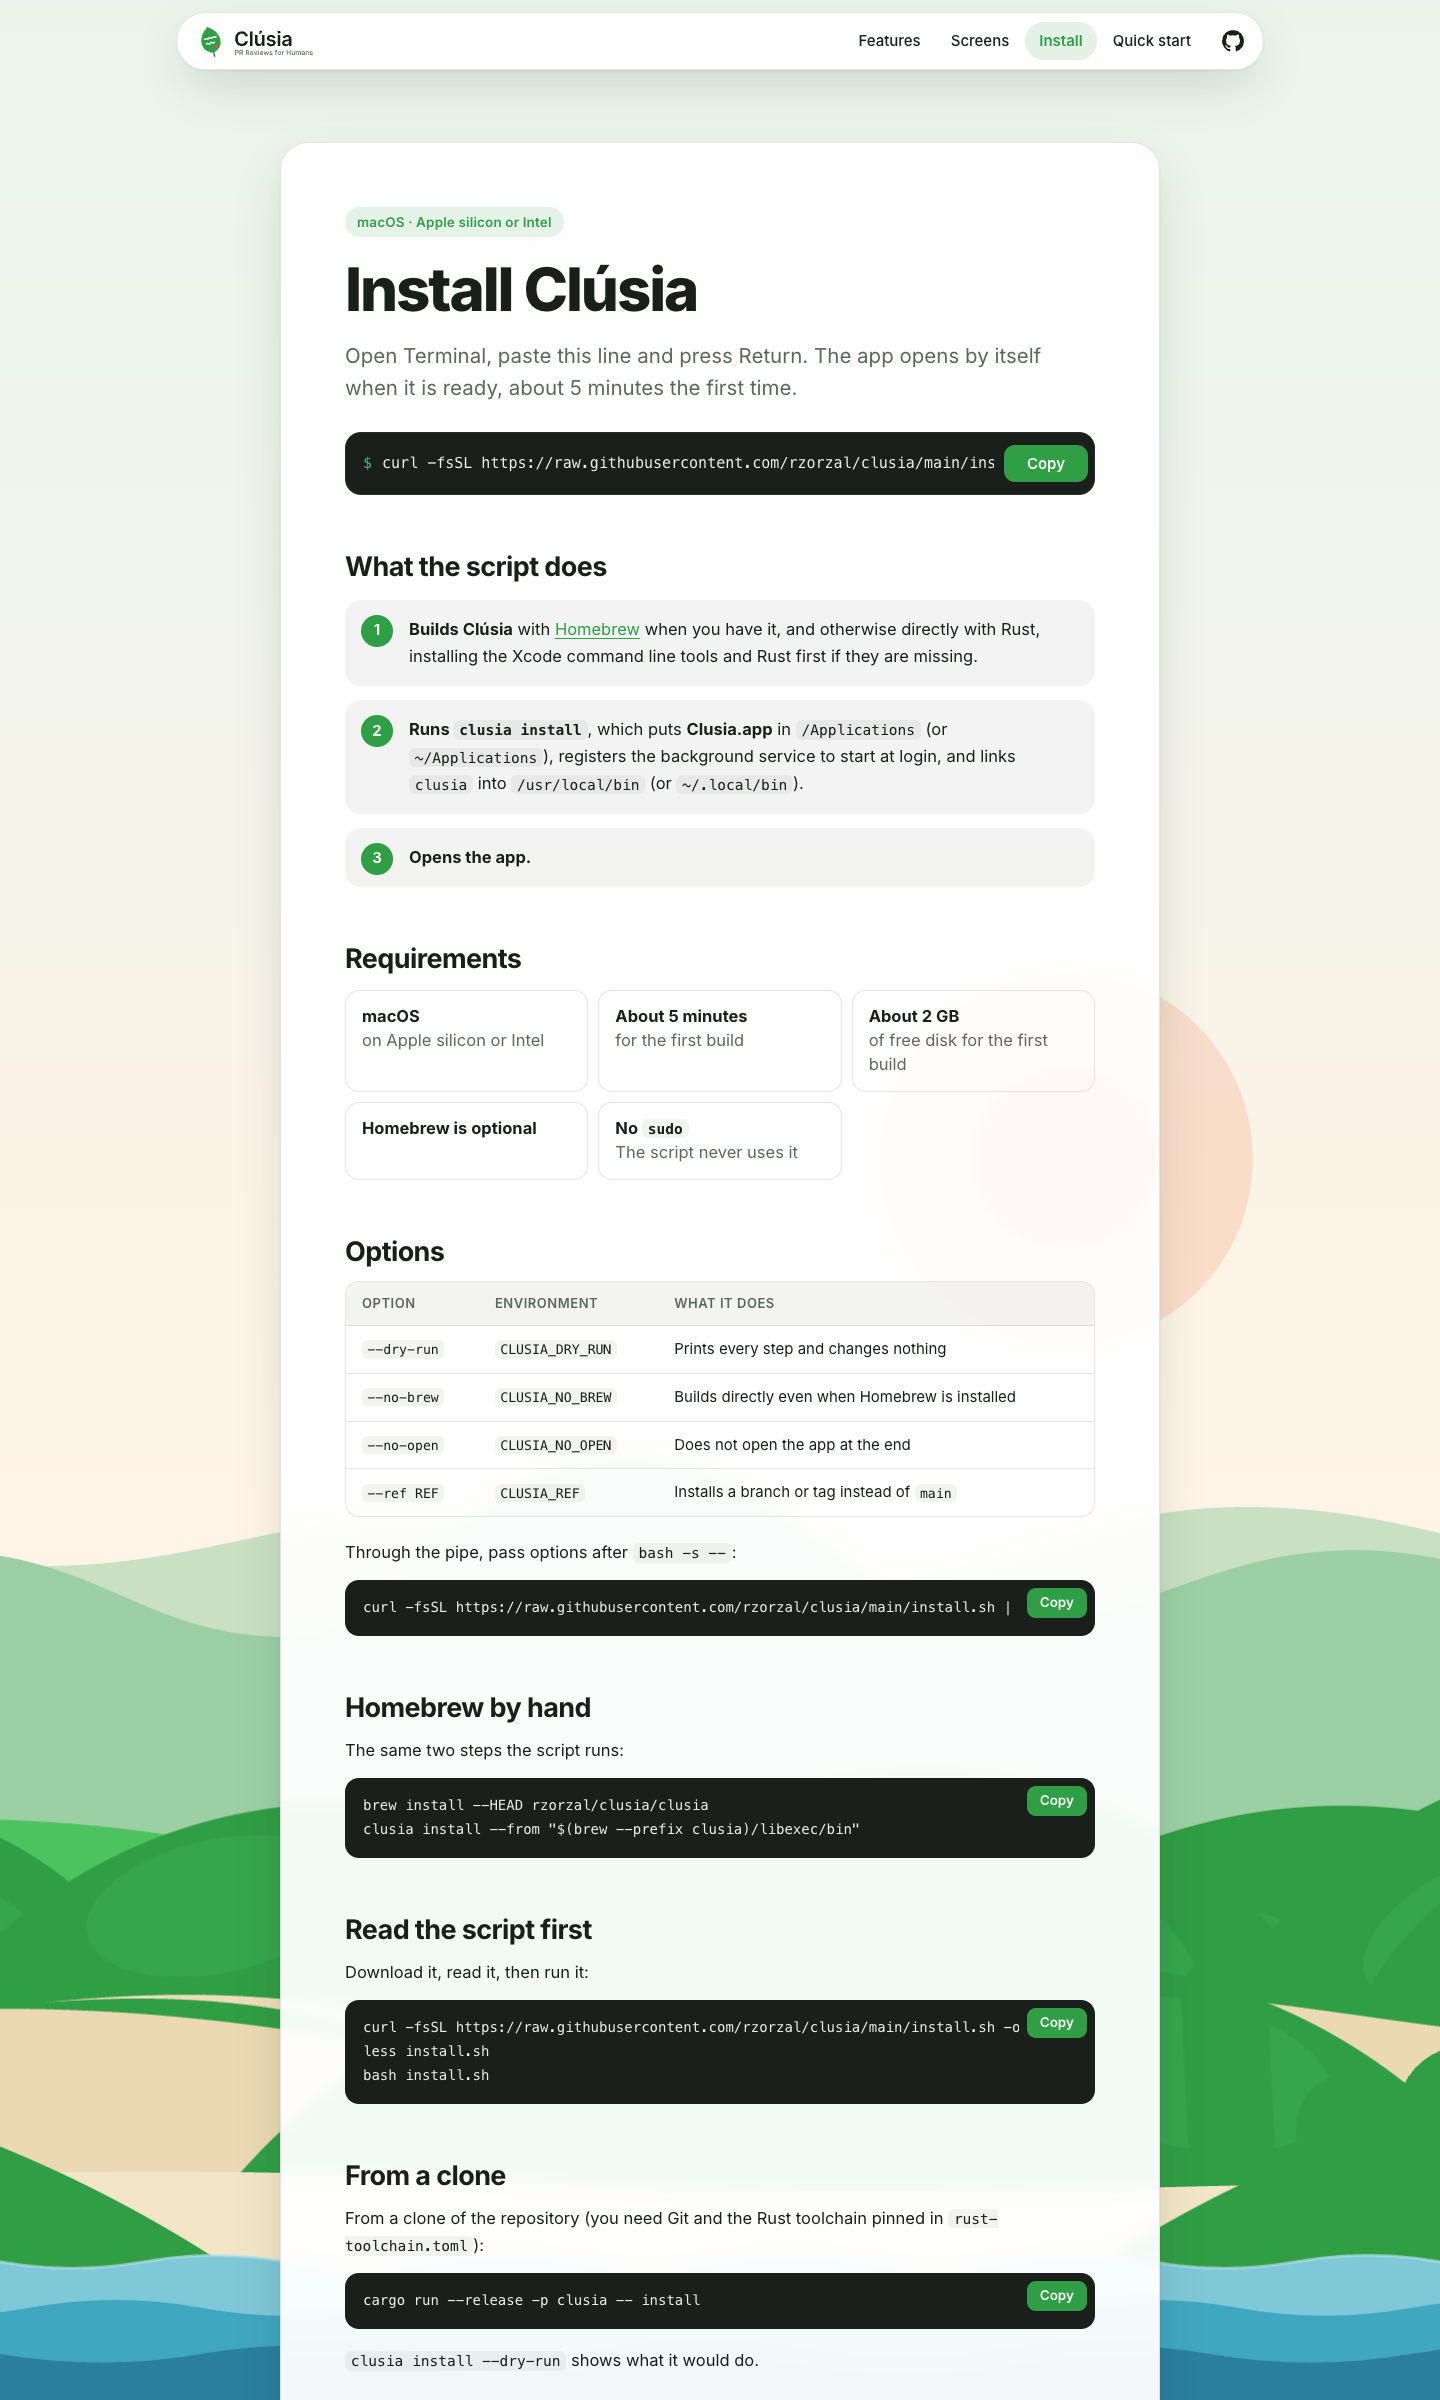
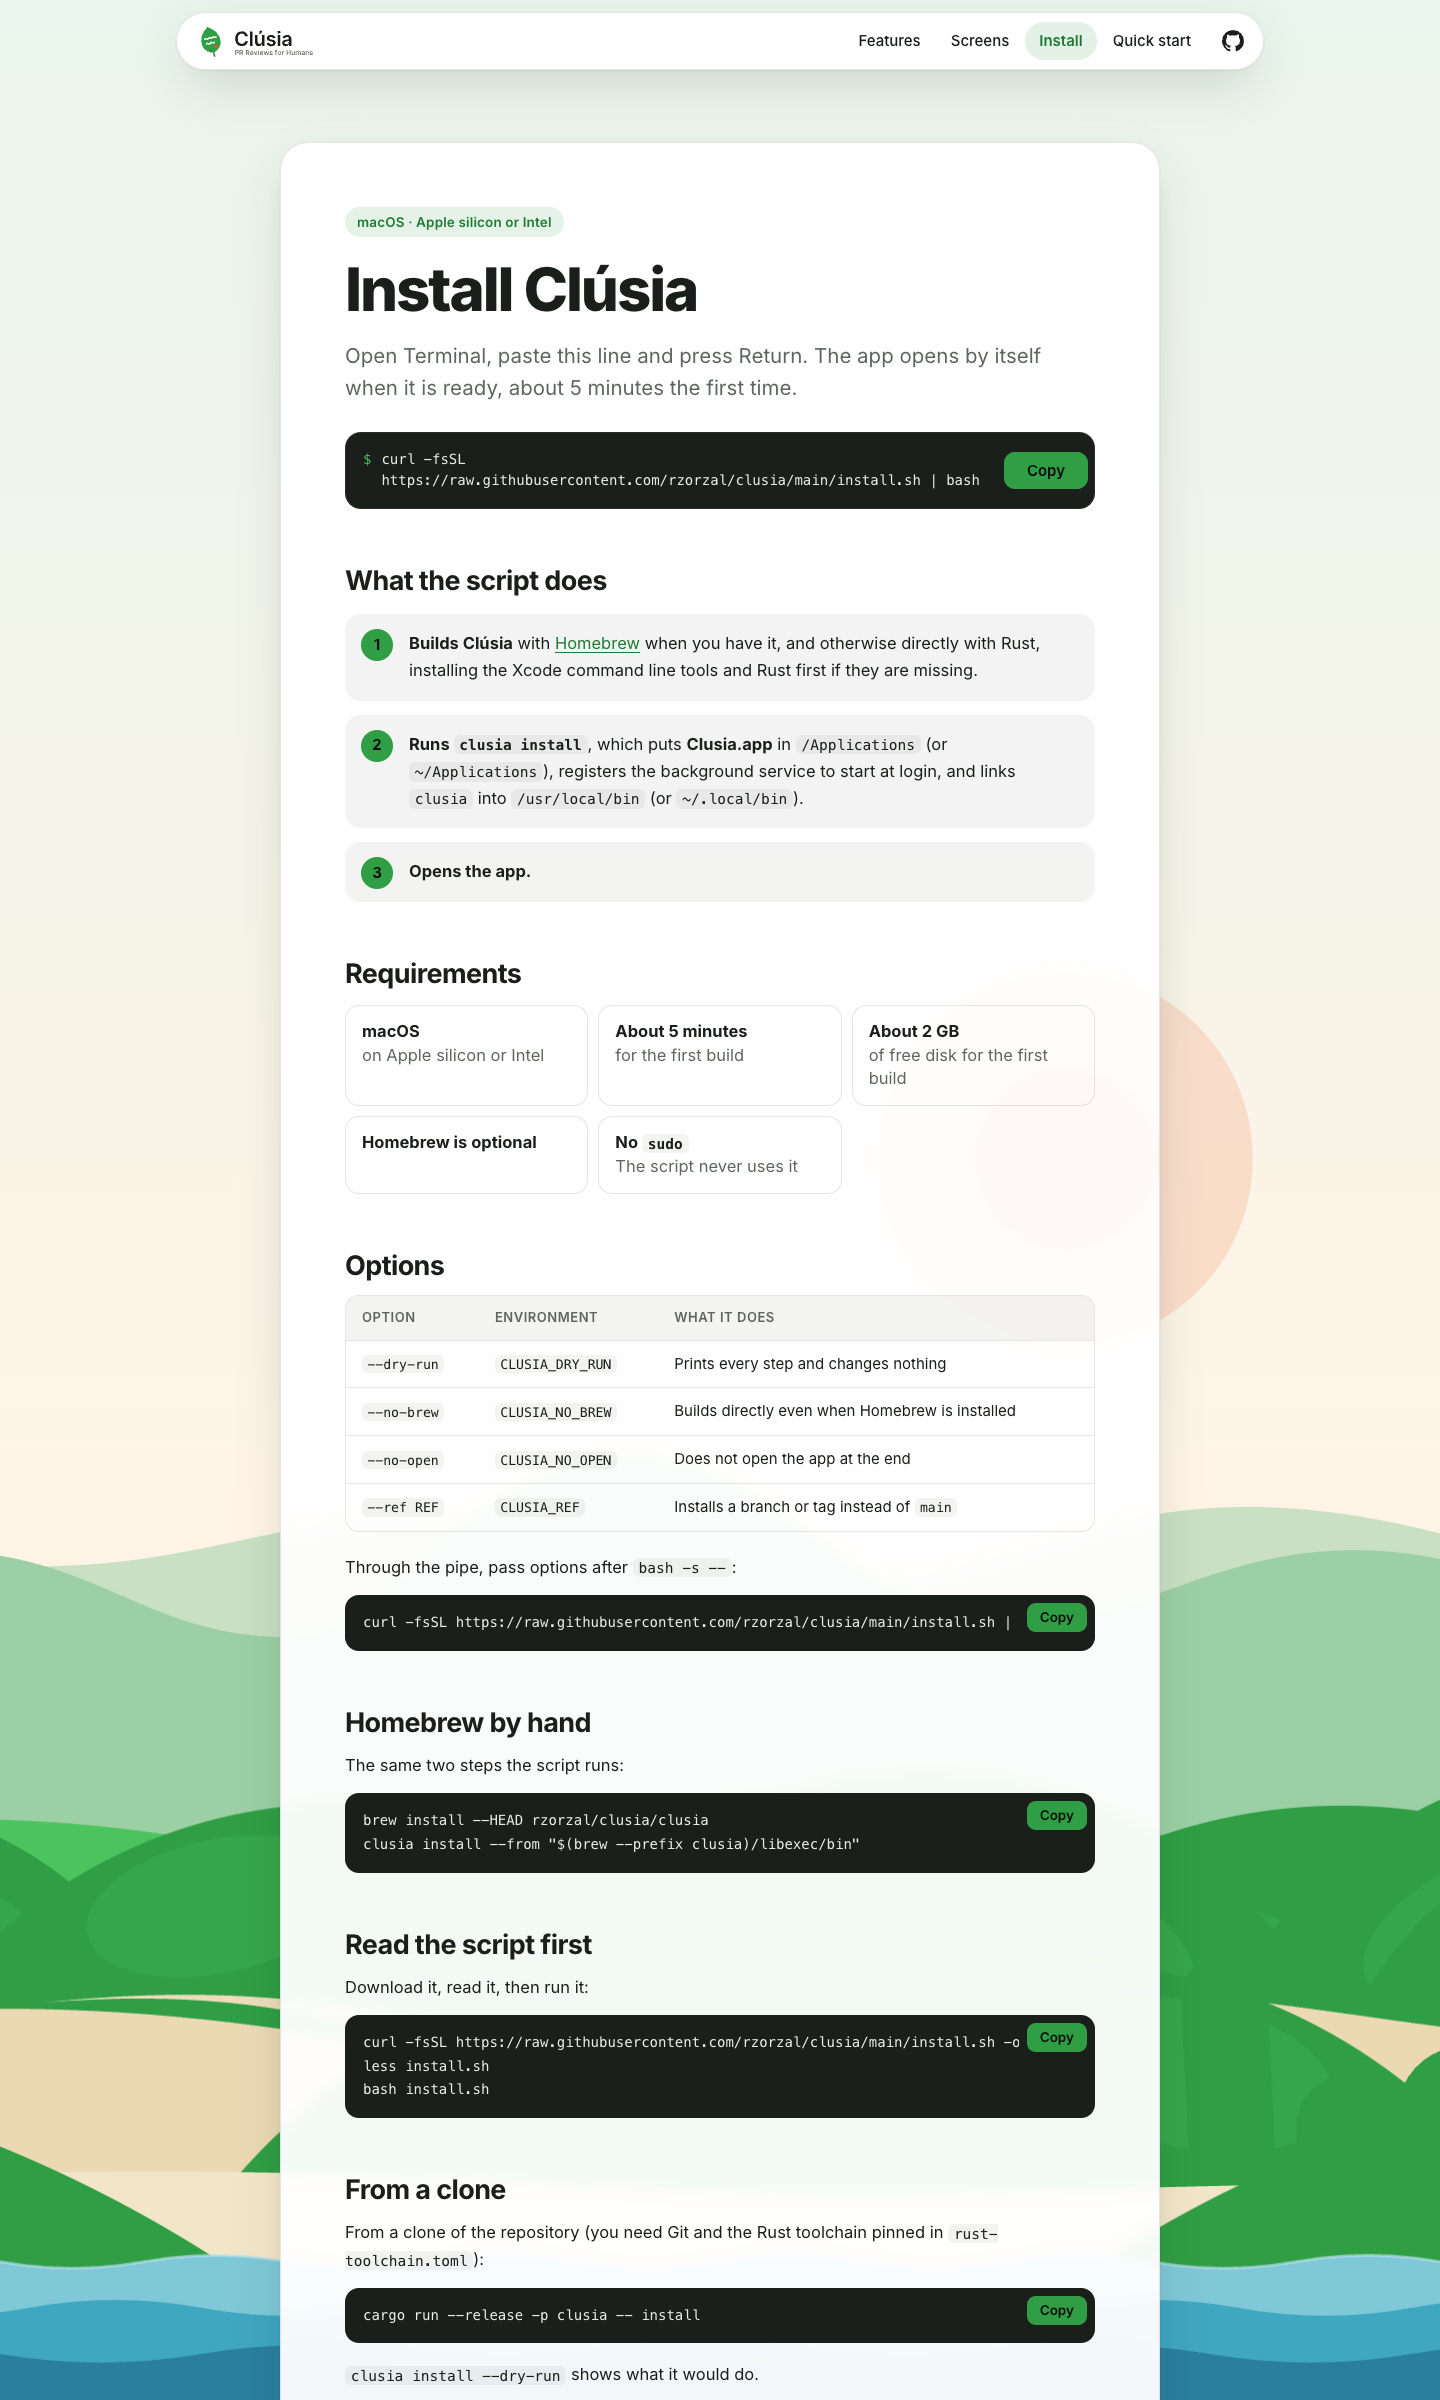
fix(site): readable green text, the whole install command in view and announced copy feedback

Changed region(s): [[0.2188, 0.1875, 0.7812, 1.0], [0.4062, 0.4062, 0.5625, 0.5], [0.5938, 0.4062, 0.6875, 0.4688]]

diff --git a/site/css/site.css b/site/css/site.css
@@ -22,7 +22,8 @@
   --ink: #1B1F1C;
   --muted: #5D665F;
   --accent: #2F9E44;
-  --on-accent: #ffffff;
+  --accent-text: #1F7A33;
+  --on-accent: #0c0e0d;
   --code-bg: #1B1F1C;
   --code-ink: #E9ECE9;
   --line: color-mix(in srgb, var(--ink) 11%, transparent);
@@ -39,6 +40,7 @@
   --ink: #E9ECE9;
   --muted: #9AA49C;
   --accent: #4CC35F;
+  --accent-text: #4CC35F;
   --on-accent: #0c0e0d;
   --code-bg: #131716;
   --code-ink: #E9ECE9;
@@ -71,7 +73,7 @@ body {
 }
 
 a {
-  color: var(--accent);
+  color: var(--accent-text);
   text-underline-offset: 3px;
   text-decoration-thickness: 1px;
 }
@@ -312,7 +314,7 @@ img {
 }
 
 .links a[aria-current="page"] {
-  color: var(--accent);
+  color: var(--accent-text);
   background: color-mix(in srgb, var(--accent) 13%, transparent);
   font-weight: 600;
 }
@@ -423,7 +425,7 @@ p {
   font-size: 13.5px;
   font-weight: 600;
   letter-spacing: 0.01em;
-  color: var(--accent);
+  color: var(--accent-text);
   background: color-mix(in srgb, var(--accent) 12%, transparent);
 }
 
@@ -539,6 +541,37 @@ strong {
   padding: 8px 13px;
   font-size: 13.5px;
   border-radius: 9px;
+}
+
+/* From 600 px up the whole command is in view, wrapping at a space or, if it must, inside the URL. */
+@media (min-width: 600px) {
+  .install code {
+    white-space: normal;
+    overflow-wrap: anywhere;
+    padding: 10px 0;
+    font-size: 14px;
+    line-height: 1.55;
+  }
+
+  /* Level with the first line when the command wraps. */
+  .install::before {
+    align-self: flex-start;
+    padding-top: 10px;
+    font-size: 14px;
+    line-height: 1.55;
+  }
+}
+
+.visually-hidden {
+  position: absolute;
+  width: 1px;
+  height: 1px;
+  margin: -1px;
+  padding: 0;
+  overflow: hidden;
+  clip-path: inset(50%);
+  white-space: nowrap;
+  border: 0;
 }
 
 /* ---------- Install page pieces ---------- */
@@ -657,7 +690,7 @@ tbody tr:last-child td {
 }
 
 .next span:last-child {
-  color: var(--accent);
+  color: var(--accent-text);
 }
 
 .next:hover {

diff --git a/site/js/site.js b/site/js/site.js
@@ -13,8 +13,9 @@ export const PARALLAX_RANGE = 500;
 // `|| 0` turns -0 into 0, so the transform never reads `-0px`.
 export const layerShift = (scrollY, depth) => Math.min(Math.max(scrollY, 0), PARALLAX_RANGE) * -depth || 0;
 
-// `env` stands in for the window so the copy path can run outside a browser.
-export async function copyFrom(button, env = globalThis) {
+// `env` stands in for the window so the copy path can run outside a browser. The button's
+// aria-label hides its changing text from screen readers, so `status` (a live region) says it.
+export async function copyFrom(button, env = globalThis, status = null) {
   const code = button.parentElement.querySelector('[data-copy]');
   let copied = false;
   try {
@@ -33,6 +34,7 @@ export async function copyFrom(button, env = globalThis) {
     } catch {}
   }
   button.textContent = copied ? 'Copied' : 'Press ⌘C';
+  if (status) status.textContent = copied ? 'Copied' : 'Selected. Press ⌘C to copy.';
   env.clearTimeout(button.resetTimer);
   button.resetTimer = env.setTimeout(() => {
     button.textContent = 'Copy';
@@ -83,8 +85,17 @@ function init() {
     parallax([...document.querySelectorAll('.restinga .layer')].map((layer) => [layer, Number(layer.dataset.depth) || 0]));
   }
 
+  const status = document.createElement('p');
+  status.className = 'visually-hidden';
+  status.setAttribute('role', 'status');
+  status.setAttribute('aria-live', 'polite');
+  document.body.append(status);
   for (const button of document.querySelectorAll('button.copy')) {
-    button.addEventListener('click', () => copyFrom(button));
+    button.addEventListener('click', () => {
+      // Emptied first so the same message twice in a row is announced again.
+      status.textContent = '';
+      copyFrom(button, globalThis, status);
+    });
   }
 }
 
